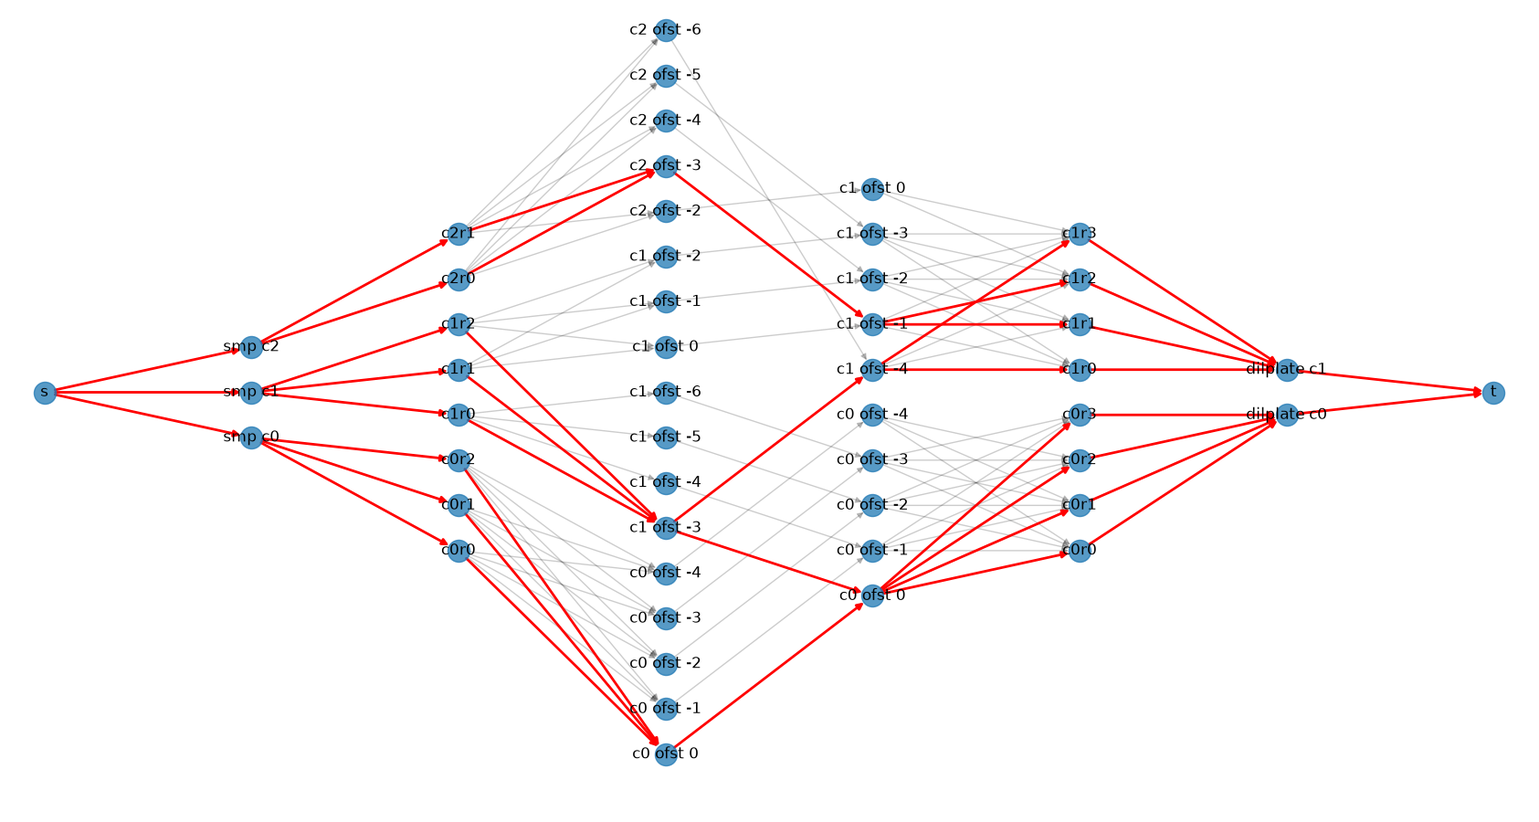
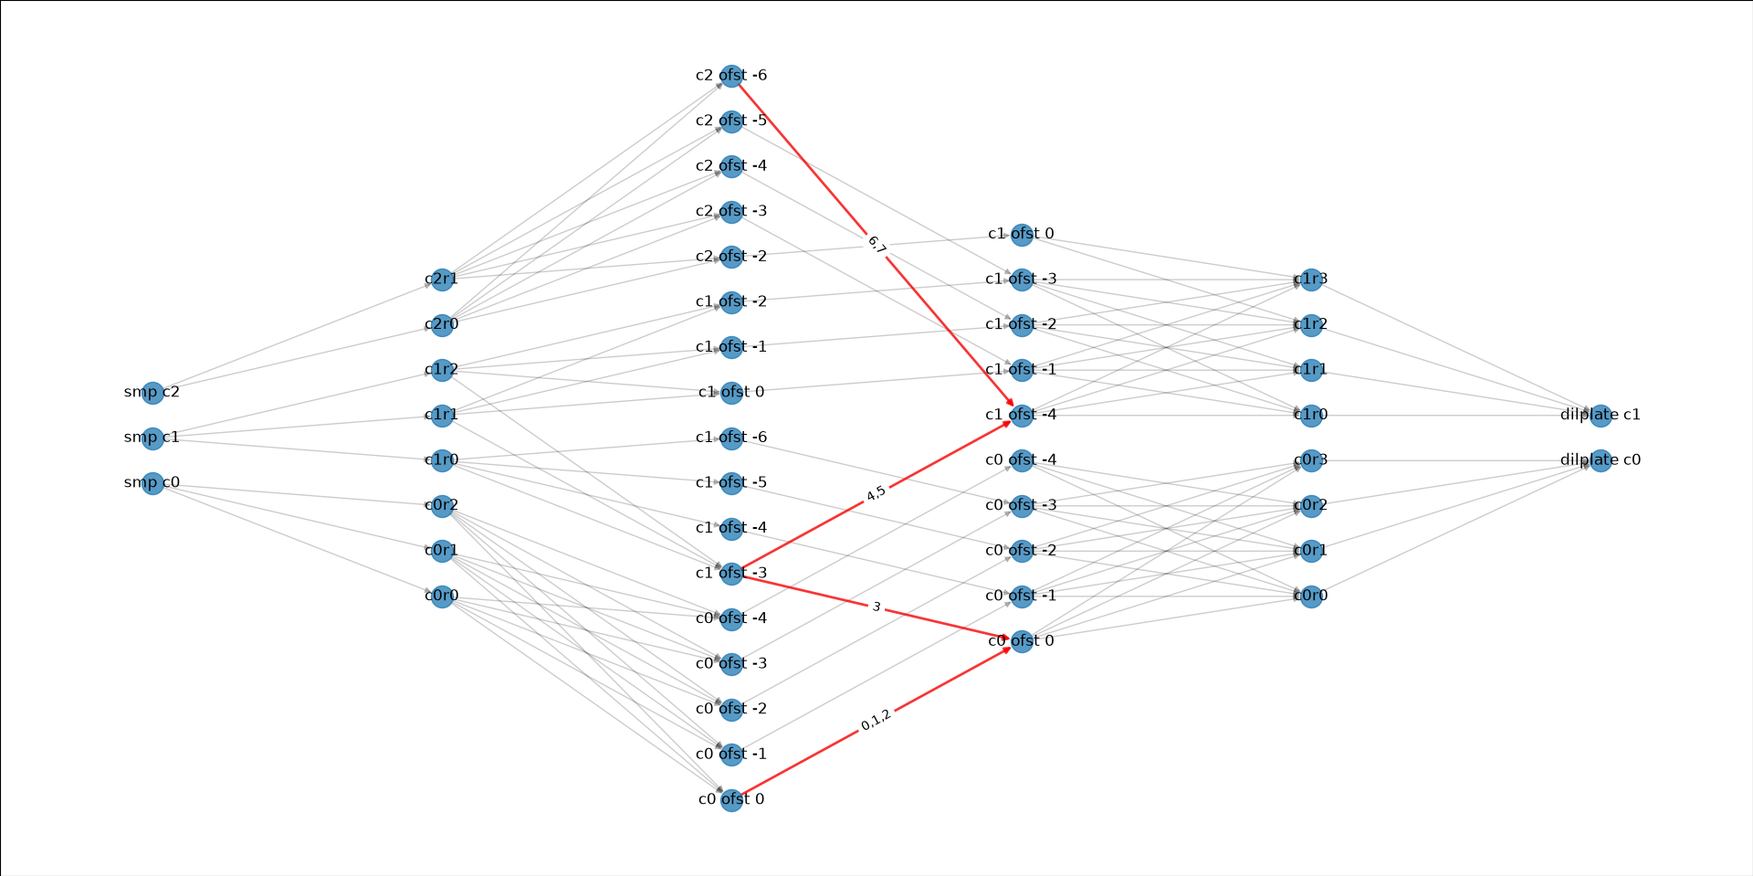
Reworks optimisation_details for new changes

Changed region(s): [[0.0, 0.0, 0.9875, 0.9333], [0.1234, 0.4044, 0.1852, 0.4356]]

diff --git a/evo_pipetting_optimiser/examples/graph_demo.py b/evo_pipetting_optimiser/examples/graph_demo.py
@@ -52,80 +52,12 @@ def basic_row_column(worklist):
 
     with AutoWorklist(worklist, waste_location=(1, 2), cleaner_location=(1, 3)) as wl:
 
-        # wl.auto_transfer(
-        #     sample_plate,
-        #     [sample_plate.wells[i // 2, 0] for i in range(8)],
-        #     dilution_plate,
-        #     dilution_plate.wells[:, 0],
-        #     50,
-        #     liquid_class="Water free dispense",
-        #     label="Transfer duplicates",
-        # )
-
-        # # transfer sample to dilution plate
-        # wl.auto_transfer(
-        #     sample_plate,
-        #     sample_plate.wells[1:7, 0],
-        #     dilution_plate,
-        #     dilution_plate.wells[2:, 0],
-        #     volumes=50,
-        #     liquid_class="Water free dispense",
-        #     label="Transfer mismatching rows",
-        # )
-
-        # # Transfer diluent to dilution plate
-        # wl.auto_transfer(
-        #     test_trough,
-        #     test_trough.wells,
-        #     dilution_plate,
-        #     dilution_plate.wells[:8, 0],
-        #     50,
-        #     liquid_class="Water free dispense",
-        #     label="Transfer diluent",
-        # )
-
-        # Transfer col 0 to row 0
-        # wl.auto_transfer(
-        #     sample_plate,
-        #     sample_plate.wells[:, 0],
-        #     dilution_plate,
-        #     dilution_plate.wells[0, :8],
-        #     50,
-        #     liquid_class="Water free dispense",
-        #     label="Transfer column to row",
-        # )
-
-        # wl.auto_transfer(
-        #     sample_plate,
-        #     sample_plate.wells[0, :8],
-        #     dilution_plate,
-        #     dilution_plate.wells[:, 0],
-        #     50,
-        #     liquid_class="Water free dispense",
-        #     label="transfer row to column",
-        # )
-
-        # # Now transfer back to trough
-        # wl.auto_transfer(
-        #     dilution_plate,
-        #     dilution_plate.wells[:, 0],
-        #     test_trough,
-        #     test_trough.wells,
-        #     50,
-        #     liquid_class="Water free dispense",
-        #     label="transfer to trough",
-        # )
-
-        # Situation where we transfer a column to a row, with a range across 8 wells but excluding a middle well
-        # Will aspirate in one op, leaving tip 5 empty
-        # Unlike default Evoware, which would aspirate rows A-D with tips 1-4 then rows F-H with tips 5-7
-        # Large volume (>950) means we repeat each op twice
 
         wl.auto_transfer(
             sample_plate,
             sample_plate.wells[[0,2], 0],
             dilution_plate,
-            dilution_plate.wells[[0,2], [ 1]],
+            dilution_plate.wells[[0,1], [ 0]],
             600,
             liquid_class="Water free dispense",
             label="transfer noncontinuous rows to col",
@@ -133,49 +65,15 @@ def basic_row_column(worklist):
 
         wl.auto_transfer(
             sample_plate,
-            sample_plate.wells[[0,2], 1],
+            sample_plate.wells[1, [2,3]],
             dilution_plate,
-            dilution_plate.wells[[1,3], [ 1]],
-            600,
-            liquid_class="Water free dispense",
-            label="transfer noncontinuous rows to col",
-        )
-
-        # wl.auto_transfer(
-        #     sample_plate,
-        #     sample_plate.wells[[1,3], 1],
-        #     dilution_plate,
-        #     dilution_plate.wells[[0,2], [ 0]],
-        #     600,
-        #     liquid_class="Water free dispense",
-        #     label="transfer noncontinuous rows to col",
-        # )
-
-        wl.auto_transfer(
-            sample_plate,
-            sample_plate.wells[[1,3], 0],
-            dilution_plate,
-            dilution_plate.wells[[1,3], [ 0]],
+            dilution_plate.wells[[0,1], [ 1]],
             600,
             liquid_class="Water free dispense",
             label="transfer noncontinuous rows to col",
         )
 
        
-
-        # Same situation but transferring one row to many cols
-        # Will do several aspirates, but group to one dispense
-        # wl.auto_transfer(
-        #     sample_plate,
-        #     sample_plate.wells[0, [0, 1, 2, 3, 5, 6, 7]],
-        #     dilution_plate,
-        #     dilution_plate.wells[[0, 1, 2, 3, 5, 6, 7], 0],
-        #     600,
-        #     liquid_class="Water free dispense",
-        #     label="Transfer noncontinuous cols to rows",
-        # )
-
-        # Print the operations we have registered, so we can sanity check
         print(wl.report)
 
         wl.commit(report=True)

diff --git a/evo_pipetting_optimiser/optimisation/OpGraph.py b/evo_pipetting_optimiser/optimisation/OpGraph.py
@@ -8,7 +8,7 @@ import heapq
 # Set DEBUG=True to also track edges for source/dest rows and columns - this is useful
 # to show the full context of the graph in show_graph()
 # Leave False for routine use - speeds up execution ~10%
-DEBUG = False
+DEBUG = True
 
 class OptimisationError(Exception):
     pass
@@ -308,9 +308,11 @@ class OpGraph:
 
             # How we sort and prioritise the edges
             def edge_sort_key(edge):
+
                 return (G[edge]["wash_needed"],
-                -len(G[edge]["op_tip"]),
-                min(G[edge]["op_tip"].keys()))
+                -len(G[edge]["op_tip"]))
+
+            
 
             edge_heap = []
 
@@ -409,39 +411,34 @@ def show_graph(edges):
     for (u, v), attrs in edges.items():
         G.add_edge(u, v, **attrs)
 
-    reachable_dict = nx.shortest_path_length(G, source="s")
-    reachable_nodes = set(reachable_dict.keys())
-
-    all_nodes = set(G.nodes)
-    unreachable_nodes = all_nodes - reachable_nodes
-
-    # Step 3: Remove unreachable nodes
-    # We must convert the iterator to a list to avoid RuntimeError during iteration
-    G.remove_nodes_from(list(unreachable_nodes))
+    
 
     pos = nx.bfs_layout(G, start="s")
 
-    # Identify edges with positive flow
-    active_edges = [
-        (u, v) for u, v in G.edges() if "flow" in G[u][v] and G[u][v]["flow"] > 0
+
+    # Draw nodes and all edges 
+    nx.draw_networkx_nodes(G, pos, alpha=0.75, nodelist=[n for n in G.nodes if n not in ["s", "t"]])
+    nx.draw_networkx_edges(G, pos, alpha=0.2, edgelist=[e for e in G.edges if e[0] != "s" and e[1] != "t"]) 
+
+    edges_of_interest = [
+        (('s_ofst', 's', 'smp', 0, 'Water free dispense', 0), ('d_ofst', 't', 'dilplate', 0, 'Water free dispense', 0)),
+        (('s_ofst', 's', 'smp', 1, 'Water free dispense', -3), ('d_ofst', 't', 'dilplate', 0, 'Water free dispense', 0)),
+        (('s_ofst', 's', 'smp', 1, 'Water free dispense', -3), ('d_ofst', 't', 'dilplate', 1, 'Water free dispense', -4)),
+        (('s_ofst', 's', 'smp', 2, 'Water free dispense', -6), ('d_ofst', 't', 'dilplate', 1, 'Water free dispense', -4)),
     ]
 
-    # Draw nodes and all edges faintly
-    nx.draw_networkx_nodes(G, pos, alpha=0.75)
-    nx.draw_networkx_edges(G, pos, alpha=0.2)  # faint background edges
+    # Draw specific edges of interest
+    nx.draw_networkx_edges(G, pos, alpha=0.75, edge_color='r', width=2, edgelist=edges_of_interest) 
 
-    # Draw active flow edges prominently
-    nx.draw_networkx_edges(G, pos, edgelist=active_edges, edge_color="r", width=2)
+
 
     # Extract the flow values for labeling
-    flow_labels = nx.get_edge_attributes(G, "flow")
-    capacity_labels = nx.get_edge_attributes(G, "capacity")
-    weight_labels = nx.get_edge_attributes(G, "weight")
+    op_labels = nx.get_edge_attributes(G, "op_tip")
 
     edge_labels = {
-        key: f"{flow_labels[key]}/{capacity_labels[key]}/{weight_labels[key]}"
-        for key in flow_labels.keys()
-        # if key in active_edges
+        key: ",".join(str(op.id) for op in op_tip.keys())
+        for key, op_tip in op_labels.items()
+        if key in edges_of_interest
     }
 
     node_labels = {}

diff --git a/optimisation_details.md b/optimisation_details.md
@@ -1,10 +1,8 @@
-# evo_pipetting_optimiser
 ## Optimisation Algorithm Details
 
-The optimiser uses a graph representation of labware, columns, rows, and offsets, then calculates a flow through this graph to find a pipetting solution.
+The optimiser uses a graph representation of labware, columns, rows, and offsets, then uses the edges between offsets to calculate potential pipetting moves.
 
-For the operations
-
+For the operations:
 ![Report showing 4 pending operations](figures/demo_1.png)
 
 The following graph is produced
@@ -13,51 +11,20 @@ The following graph is produced
 
 We use this graph to calculate pipetting operations that can be conducted in a single move of the pipetting arm, and find the operation with maximal efficiency.
 
-The left 4 columns are the 'source' side. The graph begins with a single source node labelled 's', which is needed to calculate a flow. This connects to a node for each column in each labware. As the pipetting arm has 8 tips in a column, it can only access 1 column in 1 labware at a time. So this is the first layer of division.
+The left 3 columns are the 'source' side. There is a node for each column in each labware. As the pipetting arm has 8 tips in a column, it can only access 1 column in 1 labware at a time. So this is the first layer of division.
 
 Each of these columns has (usually 8) rows. The rows that have pending pipetting operations have nodes created. The associated labware + column node has an edge going to the rows contained within that column. Here, smp column 0 has pipetting operations in row 0 and row 2 (A01 and C01). The other columns have only 1 row relevant.
 
 Each column in a plate may be accessed with the tips offset in the y direction. With the default offset of 0, each tip is above its corresponding row. With an offset of +7, tip 8 is above row A. With an offset of -7, tip 1 is above row H. To show a simpler graph for this example, offset_limit_up and offset_limit_down are each set to 2 in the labware objects, which limits the possible offsets from -2 to +2.
 
-Edges are created from each row, to each offset which can address this row. Each of these edges thus represents a tip being assigned to a particular row. The graph shows all possible assignments as grey edges, and the edges that were actually selected by the algorithm in red. 'smp c0r0' and 'smp c0r2' can both be aspirated with an offset of 0, so they have red edges to the 'smp c0 ofst 0' node. As we are aspirating row 0 and row 2 with an offset of 0, this will use tip 0 and tip 2. This node represents a single 'aspirate'.
+Edges are created from each row, to each offset which can address this row. Each of these edges thus represents a tip being assigned to a particular row. The graph shows all possible assignments as grey edges, and the edges that were actually selected by the algorithm in red. smp `c0r0` and smp `c0r2` can both be aspirated with an offset of 0, so they have red edges to the 'smp `c0 ofst 0`' node. As we are aspirating row 0 and row 2 with an offset of 0, this will use tip 0 and tip 2. This node represents a single 'aspirate'.
 
-The 5th column also represents an offset, but on the 'dispense' side. From 'aspirate' c0 ofst 0, 1 edge goes to 'dilplate c1 ofst 0' (the transfer from A01 to A02). However the other edge goes to a different offset, because we are transferring to a different row - C01 to B02. As tip 2 aspirated C01, and it now needs to dispense to B02, it must do this with an offset of -1, so the edge goes to 'dilplate c1 ofst -1'. Thus, this single aspirate node links to 2 dispense nodes, and 2 dispenses are required.
+The 5th column also represents an offset, but on the 'dispense' side. From aspirate `c0 ofst 0`, 1 edge goes to dilplate `c1 ofst 0` - this is labelled with a 0, as it represents op 0 (the transfer from A01 to A02). However the other edge for op 1 goes to a different offset, because we are transferring to a different row - C01 to B02. As tip 2 aspirated C01, and it now needs to dispense to B02, it must do this with an offset of -1, so the edge goes to dilplate `c1 ofst -1`. Thus, this single aspirate node links to 2 dispense nodes, and 2 dispenses are required.
 
-These dispense nodes then have edges back to the respective rows of the dispense plate. Here, edges to rows other than the actual target may also appear highlighted - this is not meaningful, since the algorithm only needs to ensure sufficient capacity from the correct offset, not a specific edge selection. No decision is made based on the selected edges in this column.
-
-These rows are then linked to nodes representing the column of the dilution plate, which is in turn linked to the the 't' node, called the sink. The source and sink are used only for the flow algorithm, as a shared 'origin' and 'destination' for all nodes even if they are on different plates.
-
-### Flow calculation
-Above, we explain how nodes and edges are constructed, and what they represent. To come up with a 'flow' through this graph (a selection of edges), we assign different edges weights, corresponding to how preferable they are, and then use an algorithm called `max_flow_min_cost` to calculate a flow.
-
-![Figure showing a graph with nodes representing the pipetting rows and columns plus weights shown](figures/optimiser%20graph%20weights.png)
-In this figure, each edge is labelled with 3 numbers, separated by slashes. The first is the 'flow' - what the algorithm has decided to put through this edge. You will see that the highlighted edges have a flow >= 1. 1 unit of flow represents 1 op - an edge with a flow of 1 will complete 1 op if it is selected. The second number is the capacity - the maximum flow an edge could take, corresponding to the maximum number of ops this edge can address. You will see that the edge s -> smp c0 has a flow of 2 and a capacity of 2, because 2 ops are completable from this column. 
-
-The third number is the weight. The edges between the 3 outer columns have no weights, as they do not influence the moves of the actual arm - they merely help with construction of the graph. The central edges between the 'source offset' and 'destination offset' columns have a weight in the range of 0-15. This is an 'offset penalty' applied to keep offsets low and close together. 
+These dispense nodes then have edges back to the respective rows of the dispense plate. These rows are then linked to nodes representing the column of the dilution plate.
 
 
-The first penalty calculates the difference between the offsets required to complete the pipetting - this varies based on rows used. Pipetting from row A to row A will be doable with an offset of 0, but pipetting from row A to row D requires an offset of at least 3. However, moving the arm further with an offset >3 is counterproductive - the op was already doable with offest 3, and a higher offset means the arm can address less additional wells in the same movement, meaning it could restrict the selection of other ops. Thus we incentivise against offsets greater than necessary by applying a penalty equal to actual offset minus the smallest required offset. `u_offset` and `v_offset` refer to the source offset and destination offset respectively. 
-
-```
-offset_difference = abs(u_offset - v_offset)
-largest_offset = max(abs(u_offset), abs(v_offset))
-
-if largest_offset > offset_difference:
-    offset_penalty += largest_offset - offset_difference
-```
-
-The second penalty encourages the sum of the offsets to be as close to 0 as possible - this ensures that we stay as close to offset 0 as possible when transferring between similar rows, again maximising the other ops that can share in a movement.
-
-```
-# We want to encourage offsets closer to 0 
-offset_penalty += abs(u_offset + v_offset)
-```
-
-The weights between row nodes and offset nodes are 0 or negative. The calculation here is 
-`-16 * number_of_row_edges`, where number_of_row_edges is the number of edges from that offset to corresponding rows - i.e. the number of different operations that can be addressed with a single offset. We want to maximise this, as offsets that connect to the maximum number of rows can complete that number of ops with a single arm movement.
-
-The `max_flow_min_cost` algorithm will first maximise the flow - selecting every possible op. It will then minimise the cost - complete these ops with the minimum sum of (flow * weight) across all edges.
-
+### Move Calculation
 A key advantage of this approach is the ability to realise shared nodes at both the source and the destination, and consider these equally, including at the same time. Consider another example, with ops:
 ![Figure showing 8 ops from 3 columns to 2 columns](figures/demo_multiplex.png)
 
@@ -65,20 +32,53 @@ The operations here go from 3 columns on one plate to 2 columns from another pla
 
 ![Figure showing the graph represengint the ops above](figures/graph_multiplex_example.png)
 
-As before, red edges indicate edges with flow, grey edges are possible offsets that were not selected by the flow algorithm. Edge labels are removed for legibility. Offsets are limited to reduce the number of visible nodes.
+Here, edges that will be relevant to our move are highlighted red for legibility, but there is nothing special about them at the beginning of the process. As before, offsets are limited to reduce the number of nodes drawn.
 
-Here, it is obvious that the dispense node `c0 ofst 0`, representing column 0 offset 0 for the dilution plate, has the most flow going through it. So, the algorithm chooses this node. This node can dispense to 4 rows with a single offset. However, it has edges to 2 aspirate nodes, so doing all 4 of these dispense rows would require 2 aspirates.
+Any offset node, on the source or destination side (columns 3 or 4) can be used as a starting point to create a move. We make a list and loop through, creating one move per starting node. 
 
-We create a list of edges going into this node, and sort them by the number of ops assigned to that edge. We look at the first edge in the list - this is the edge `c0 ofst 0 -> c0 ofst 0`. This contains ops 0-2. We add the operations 0-2 to our move.
+Here, the dispense node `c0 ofst 0`, representing column 0 offset 0 for the dilution plate, has 4 out-edges - meaning it can dispense to 4 rows with a single offset. This makes it a good candidate to produce a good move. However, it has edges to 2 aspirate nodes, so doing all 4 of these dispense rows would require 2 aspirates.
+
+We create a list of edges going into this node, and sort them by the number of ops assigned to that edge. We look at the first edge in the list - this is the edge `c0 ofst 0 -> c0 ofst 0`. This contains ops `0,1,2` - labelled. We add these ops to our move.
 
 We now have a valid move with 3 operations. However we still have empty tips, so we want to look for other operations we can combine to use the other tips. We select the next edge from the list, `c1 ofst -3 -> c0 ofst 0`. This edge contains op 3. We add this to the move, so now we have 2 aspirates and 1 dispense covering ops 0-3.
 
-However unlike the previous node, `c1 ofst -3` has other out edges - meaning that more than just op 3 can be aspirated with this offset. The edge `c1 ofst -3 -> c1 ofst -4` contains ops 4 and 5. We add this edge to our list. This edge is now the only item in the list, so we process it next, and add ops 4 and 5, with a dispense at `c1 ofst -4`. This node also has another in-edge - it is not highlighted, as it was not assigned flow, but flow only influences which node we choose first - when building a move we consider all possible edges. The edge `c2 ofst -6 -> c1 ofst -4` contains ops 7 and 8. As it is pipetting rows A and B to rows C and D, the difference in the offsets must be +2 to line the rows up correctly. We add this final aspirate to the move, and now we have a finished move covering all 8 ops with 3 aspirates and 2 dispenses.
+However unlike the previous node, `c1 ofst -3` has other out edges - meaning that more than just op 3 can be aspirated with this offset. The edge `c1 ofst -3 -> c1 ofst -4` contains ops 4 and 5. We add this edge to our list. This edge is now the only item in the list, so we process it next, and add ops 4 and 5, with a dispense at `c1 ofst -4`. This node also has another in-edge - the edge `c2 ofst -6 -> c1 ofst -4` which contains ops 7 and 8. As it is pipetting rows A and B to rows C and D, the difference in the offsets must be +2 to line the rows up correctly. We add this final aspirate to the move, and now we have a finished move covering all 8 ops with 3 aspirates and 2 dispenses.
 
-The algorithm also loops through all other nodes with flow, and calculates a move with that as a starting point, giving a list of available moves. It then chooses the move that accomplishes the most ops, given
+Similar moves are generated from each starting-point node. Then, the best move is selected by giving each move a score.
+```
+# Score the efficiency of the move, penalising moves that need more
+# distinct aspirate/dispense groups relative to the ops they cover
+num_actions = len(self.aspirates) + len(self.dispenses)
 
-The fact that we consider edges even without flow raises the question of if we even need the flow calculation at all. 
+# 0.25 weight on actions tested to perform well on range of use cases
+self.score = (
+    len(self.ops) - (1 if self.wash_first else 0) - 0.25 * num_actions
+)
+```
+Moves are scored based on which coveres the most ops, with a penalty for requiring a wash, and another for the number of aspirates/dispenses taken.
 
-Without the weights, the selection of edges through the graph would be completely random. This would always produce a *possible* set of pipetting operations, correctly assigning rows and offsets, but it will not be efficient. The described weights influence the algorithm to choose edges that are the most likely to enable other ops to share the touched nodes.
+Let's compare the top two moves generated here.
+```
+# Move 1
+aspirates = {('smp', 1, -3): [4, 5, 3], ('smp', 2, -6): [6, 7], ('smp', 0, 0): [0, 1, 2]}
+dispenses = {('dilplate', 1, -4): [4, 5, 6, 7], ('dilplate', 0, 0): [3, 0, 1, 2]}
+ops = [4, 5, 6, 7, 3, 0, 1, 2]
+tips = [4, 5, 6, 7, 3, 0, 1, 2]
+wash_first = False
+score = 6.75
 
-This might seem contrived - the weights are a guide to selecting popular nodes. The obvious way would be to count the number of nodes touched, and minimise this - this would by definition select the nodes that can fulfil the most edges (ops) at a time. However, counting selected nodes, or edges, becomes a boolean programming problem - a node should be counted equally if it has 1 flow or 100 flow, and not counted if it has 0 flow - it is boolean, off or on. This is a very difficult type of problem to solve computationally - known as NP-hard. However, the weights allow us to use the 'simplex' algorithm, which is under the hood of `max_flow_min_cost`. This is a linear programming technique, where the weight can be represented as a linear equation - the sum of the weights multiplied by the flow is in fact a linear equation. Boolean inclusion/exclusion cannot be represented in a linear equation. Linear equations are much easier computationally, achieving polynomial time on average. Thus, this allows the optimiser to repeatedly calculate good-enough assignments at each step of the process in a reasonable time.
+# Move 2
+aspirates = {('smp', 0, 0): [0, 1, 2], ('smp', 1, -3): [3, 4, 5]}
+dispenses = {('dilplate', 0, 0): [0, 1, 2, 3], ('dilplate', 1, -4): [4, 5]}
+ops = [0, 1, 2, 3, 4, 5]
+tips = [0, 1, 2, 3, 4, 5]
+wash_first = False
+score = 5.0
+```
+The top move is the move we demonstrated, with 8 ops accomplished in 3 aspirates and 2 dispenses. This scores `8 - 0 - (0.25 * 5) = 6.25`. The second move, from a different traversal, completes 5 ops across 2 aspirates and 2 dispenses. This scores `5 - 0 - (0.25 * 4) = 4`. So, our move is chosen.
+
+This calculation is important as adding more operations is not always worth the move cost. For example, if there is only one tip left, adding another aspirate in order to use this tip may not be worth it if this operation could be completed in a larger group when tips are not as constrained. New ops becoming open after old ops are completed can also create better groups later down the line.
+
+This algorithm does not exhaust every possible combination - if there are multiple edges that could be added to the move, these are sorted first by if a wash is needed (no wash preferred), then the number of ops attached to that edge, which corresponds to how many ops the additional move will add. This is a greedy approach, and it is possible that choosing one edge with fewer ops will allow a later choice with more ops, but with many possible offsets, the potential combinations of edges grows very large, and this greedy approach performs very well in testing. Sufficient variability is established by the exploration of all nodes - these will produce a range of different edge orders for the algorithm to choose from.
+
+You may also note that only the 'offset' edges, labelled with ops, are actually used in calculating moves. The other edges, used to construct and visualise the graph, are not actually needed. Thus by default `OpGraph.py` has a flag `DEBUG=False` which avoids storing these edges. `DEBUG=True` can be set to store these edges, which allows full graphs, as seen here, to be viewed using the `show_graph()` function - usage in docstring.
